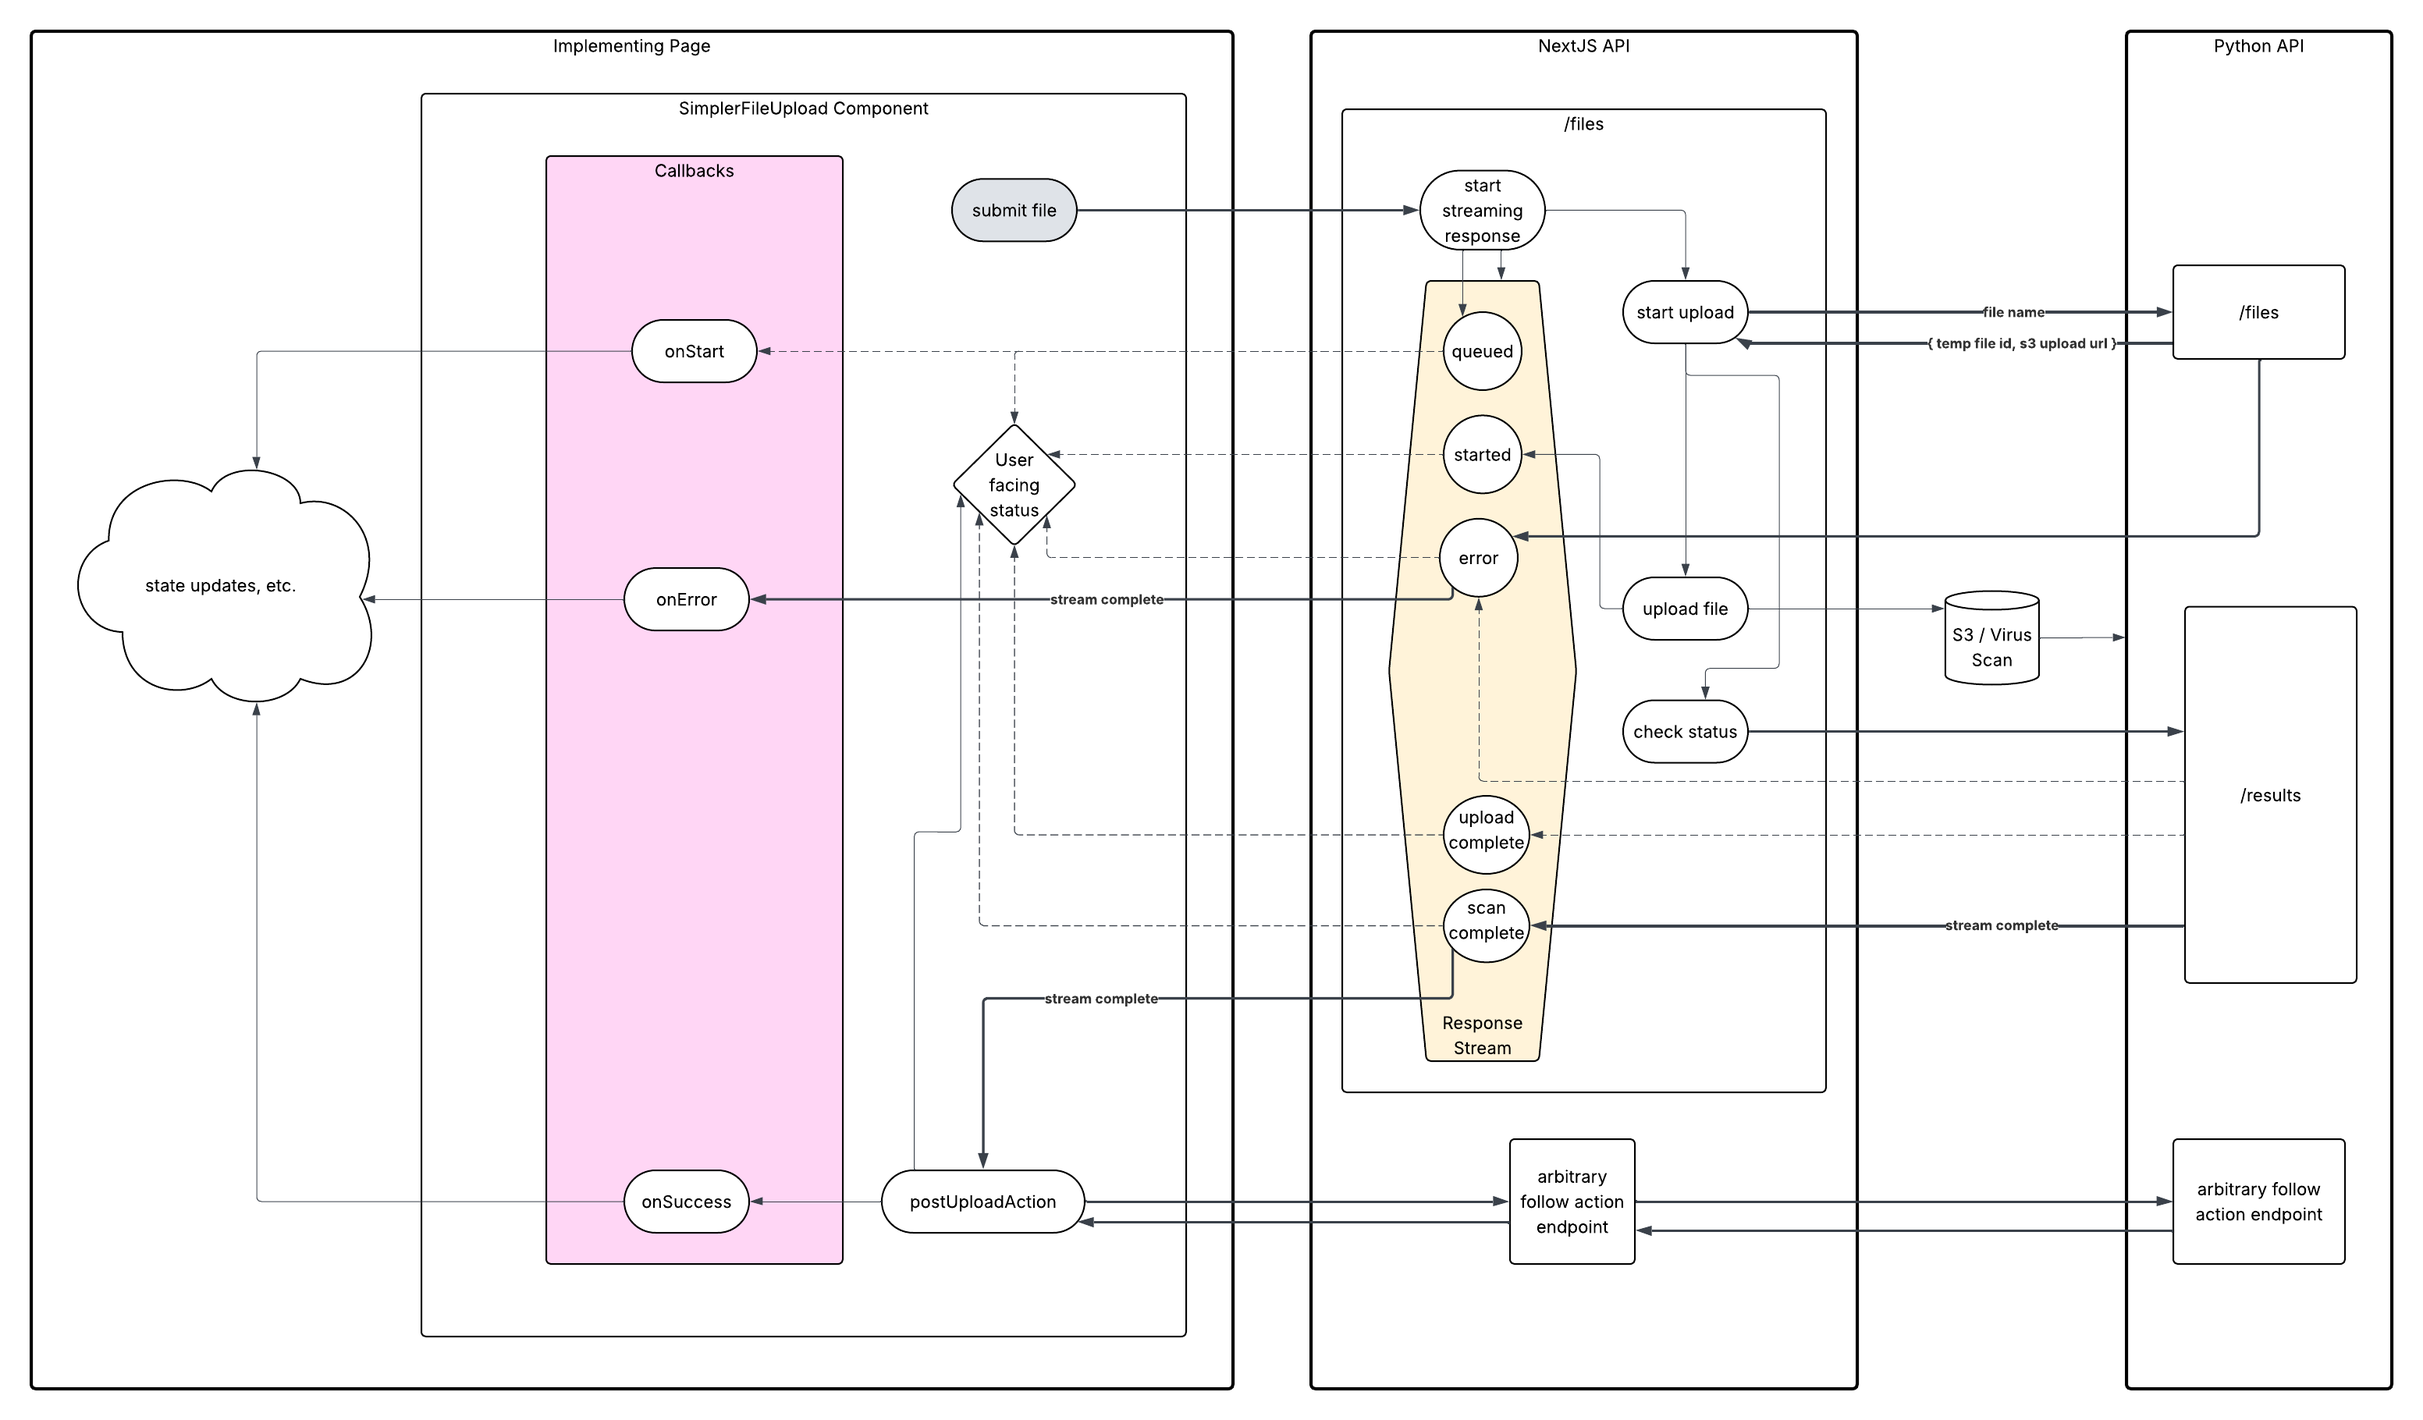
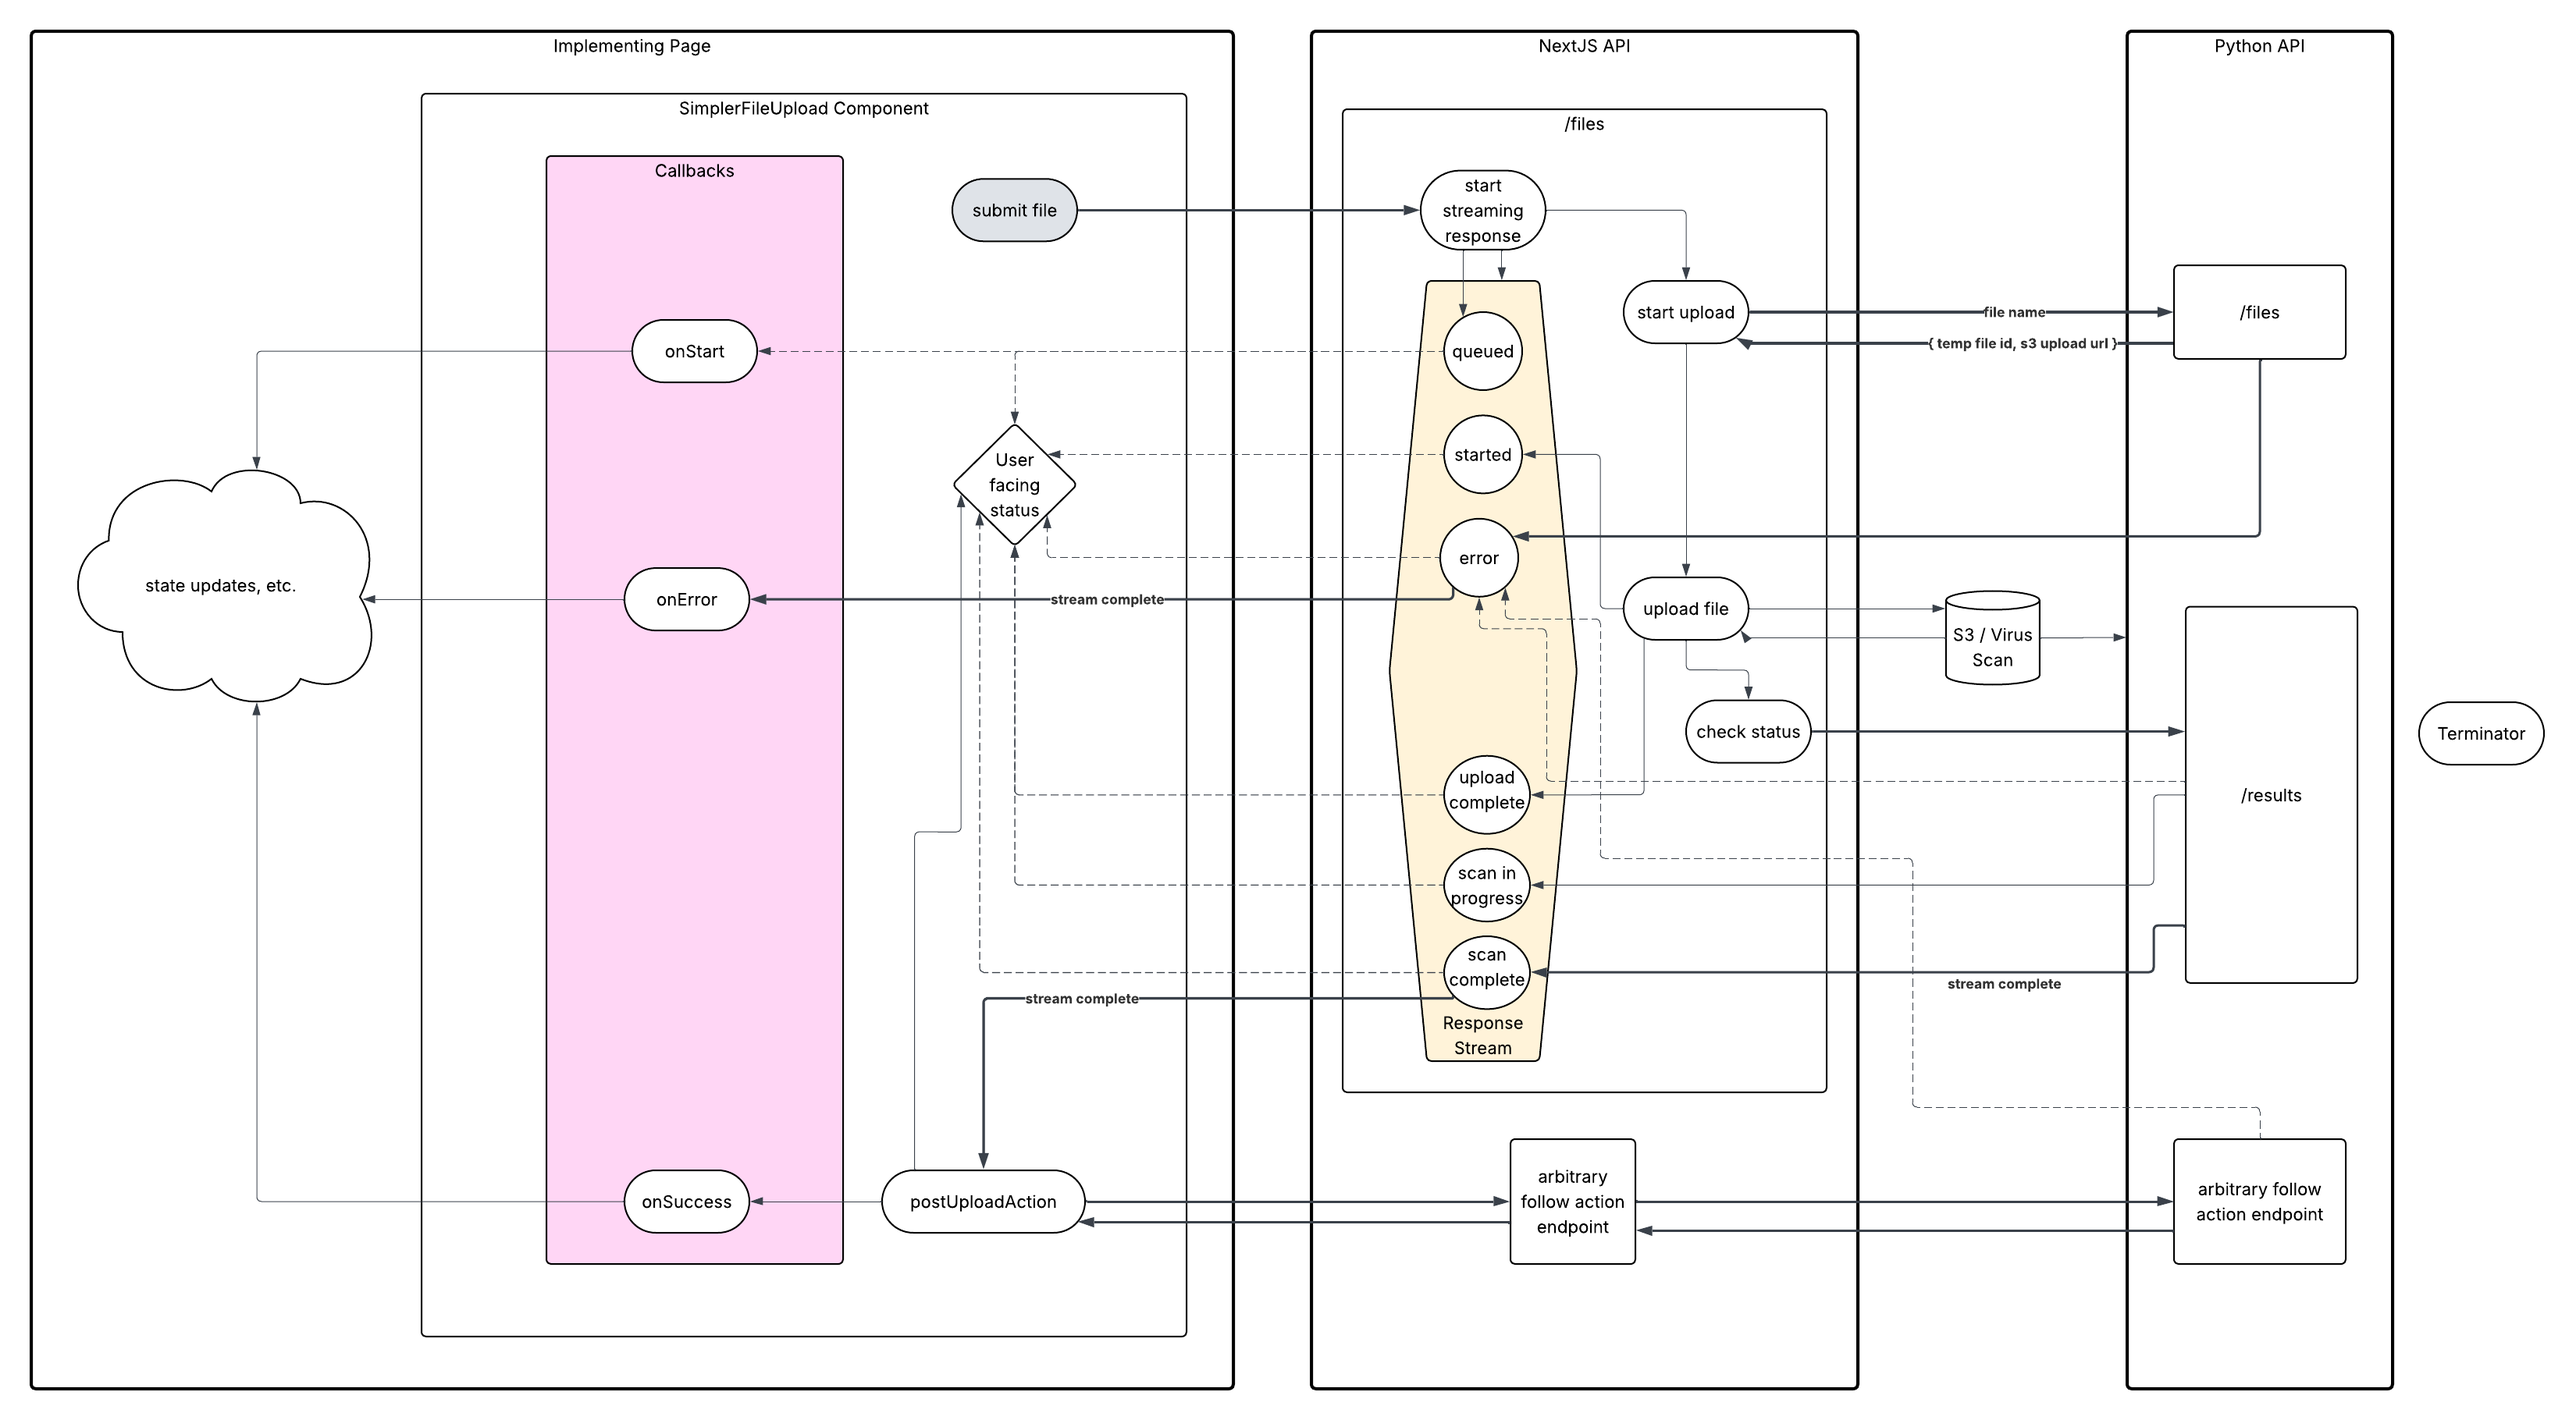
updates from review

diff --git a/documentation/frontend/file-upload.md b/documentation/frontend/file-upload.md
@@ -89,7 +89,7 @@ The following props are exposed by the component to allow for customization:
 Callbacks are supported to allow pages to respond to events during upload in any way that they need to. For instance, a page may want to display a custom banner on success or error, or run some logic or make an API call when the upload starts or completes.
 
 - onDelete
-  - callback to run after file deletion
+  - callback to run when "delete" button is clicked
 - onError
   - callback to run after any error during upload or post upload
 - onSuccess
